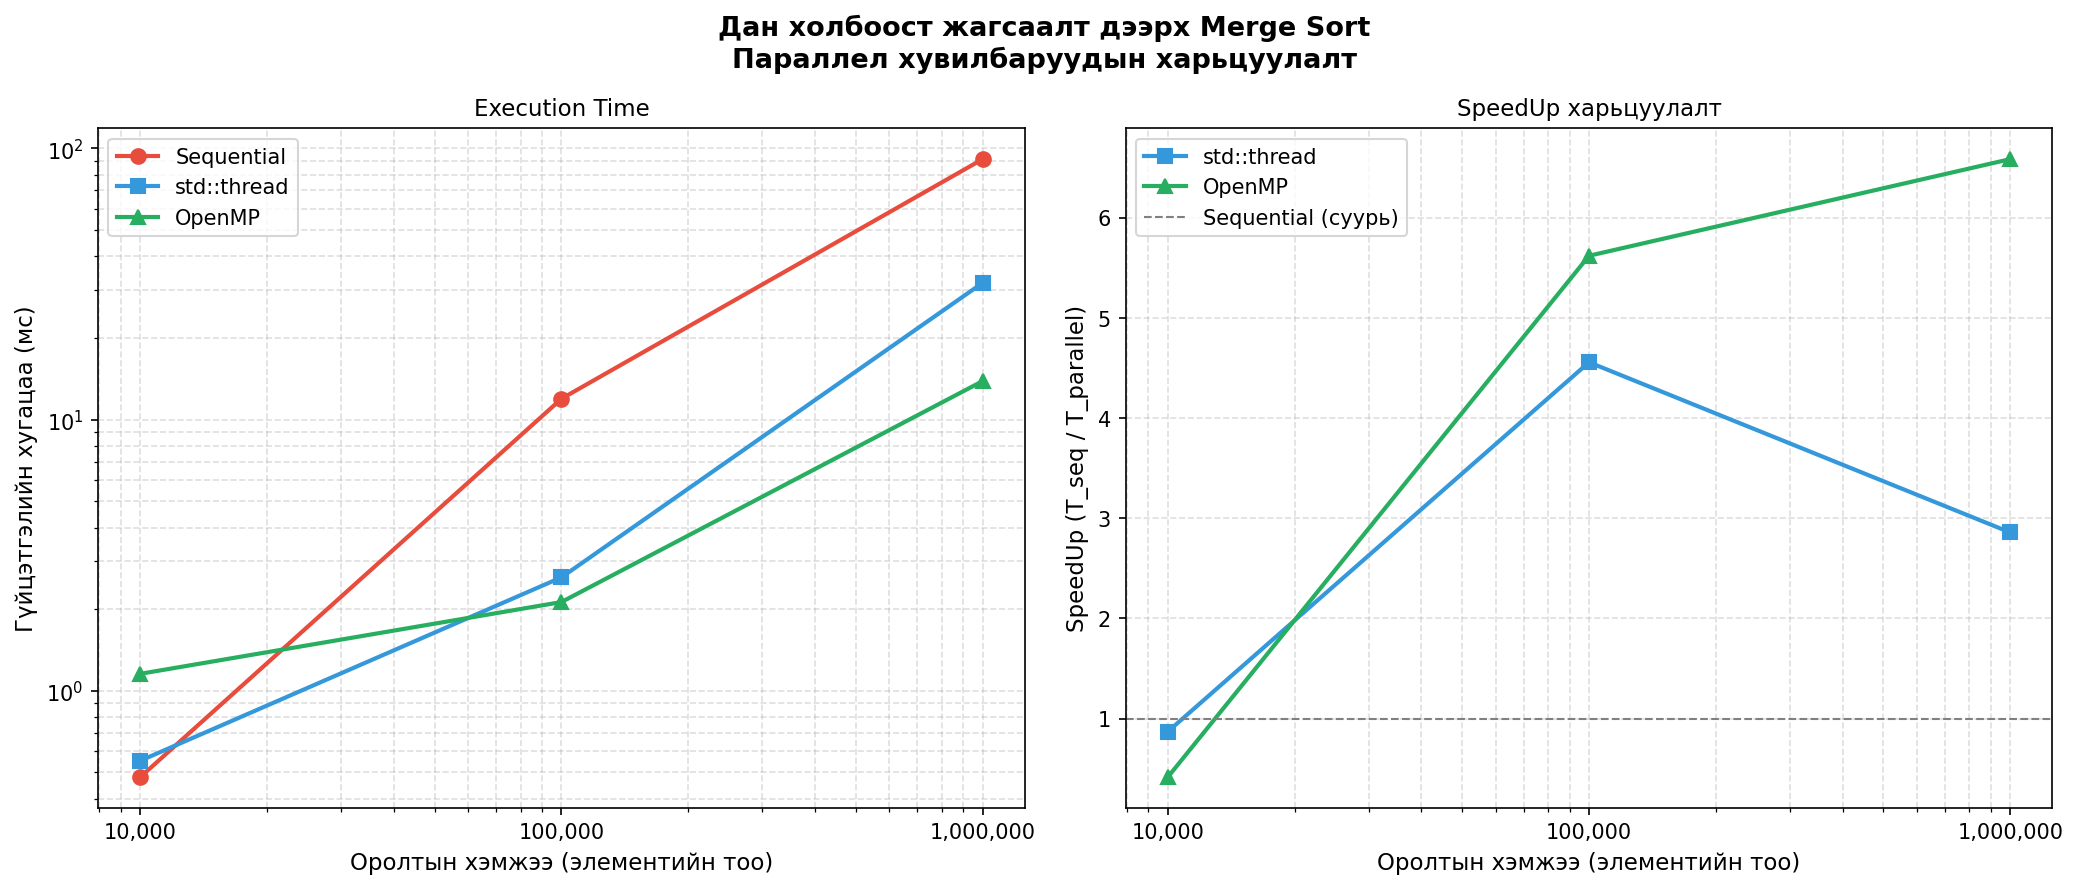
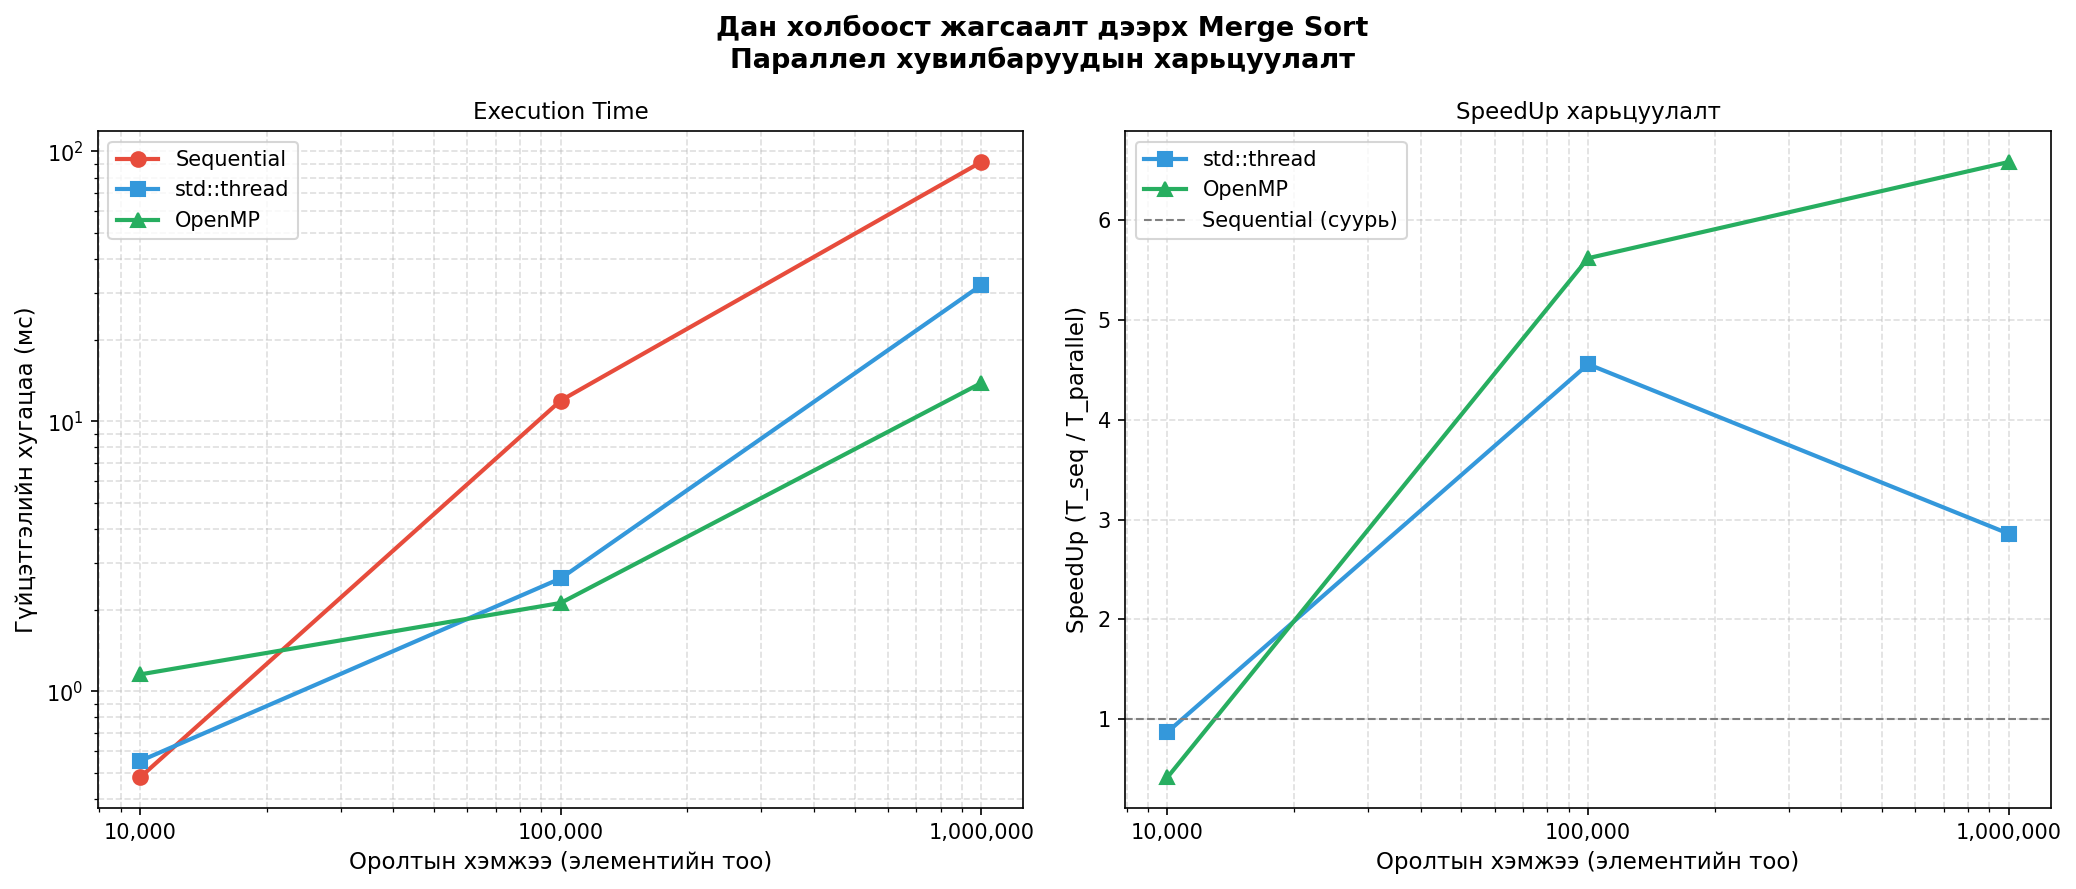
commenting нэмсэн

diff --git a/src/tasksys.cpp b/src/tasksys.cpp
@@ -13,10 +13,14 @@ void reset_array(float* base_array, float* sorting_array, int array_size){
 
 // Хуваагдсан баруун зүүн хоёр жагсаалтыг авч буцаад merge хйинэ.
 void merge_serial(float* leftArray, float* rightArray, float* array, int array_size){
+    // Баруун зүүн хоёр жагсаалтын хэмжээг тодорхойлох нь
     int leftArray_size = array_size/2;
     int rightArray_size = array_size - leftArray_size;
-    int i=0, l=0, r=0;
+    int i=0, l=0, r=0; 
 
+    // Баруун зүүн хоёр жагсаалтыг аль хэдийн тоон дараалалд орсон байна гэж үзнэ.
+    // Хоёр жагсаалтын зүүн гал талаас нь эхлэх ба элемент тус бүрийг хооронд нь харьцуулж
+    // аль бага хэмжээтэй байгааг нь output жагсаалтад нэмэх замаар ажиллана.
     while(l < leftArray_size && r < rightArray_size) {
         if(leftArray[l] < rightArray[r]) {
             array[i] = leftArray[l];
@@ -29,6 +33,8 @@ void merge_serial(float* leftArray, float* rightArray, float* array, int array_s
             r++; 
         }
     }
+
+    //Дээрх loop зогссоны дараа үлдсэн байж болзошгүй элементыг үндсэн жагсаалтад нэгтгэх
     while(l < leftArray_size) {
         array[i] = leftArray[l];
         l++;
@@ -47,11 +53,15 @@ void merge_sort_serial(float* array, int array_size) {
     if(array_size <= 1) {
         return; //Хэрэв жагсаалтын хэмжээ нэг болон түүнээс бага болсон тохиолдолд recursive байдлыг зогсоох
     }
-    int middle = array_size/2;
+    int middle = array_size/2; // Жагсаалтын хэмжээг хоёрт хуваана.
+
+    // Баруун зүүн хоёр жагсаалтыг үүсгэнэ.
     float* leftArray = (float*)malloc(middle*sizeof(float));
     float* rightArray = (float*)malloc((array_size-middle)*sizeof(float));
+
     int i=0, j=0;
 
+    // Эх жагсаалтын зүүн хэсгийг leftArray[]-д, баруун хэсгийг rightArray[]-д онооно.
     for(;i<array_size; i++){
         if(i < middle) {
             leftArray[i] = array[i];
@@ -61,17 +71,19 @@ void merge_sort_serial(float* array, int array_size) {
             j++;
         }
     }
+
+    // Хуваагдсан жагсаалтыг нэгтгэж, recursive байдлаар дахин дуудагдана. 
     merge_sort_serial(leftArray, middle);
     merge_sort_serial(rightArray, array_size-middle);
-    merge_serial(leftArray, rightArray, array, array_size);
+    merge_serial(leftArray, rightArray, array, array_size); 
 
+    // memory allocation хийсэн жагсаалтыг free() хийх нь. 
     free(leftArray);
     free(rightArray);
 }
 
 // co-rank алгоритмыг ашиглаж i утгыг олно.
-// Энэхүү i утгаар дамжуулан зүүн болон баруун жагсаалтаас хэд хэдэн элемент авахыг тухайн урсгал 
-// мэдэх болно.
+// Энэхүү i утгаар дамжуулан зүүн болон баруун жагсаалтаас хэд хэдэн элемент авахыг тухайн урсгал мэдэх болно.
 int co_rank(int k, float* leftArray, int leftArray_size, float* rightArray, int rightArray_size){
     int low;
     if (k > rightArray_size) {
@@ -89,6 +101,10 @@ int co_rank(int k, float* leftArray, int leftArray_size, float* rightArray, int 
         high = leftArray_size;
     }
 
+    // Хэрэв голын доорх i утга дээр дараах if statement-д буй нөхцөл биелэж байна гэдэг нь
+    // баруун, зүүн аль нэг жагсаалтаас хэтэрхий их утга авсан байна гэж үзээд шинээр high болон low
+    // утгуудыг тооцоолно. Ингэснээр жагсаалт болгоны элементүүдийг харьцуулах ачааллаас сэргийлж ердөө хэдхэн харьцуулалт хийж 
+    // хүссэн i утгыг олж чадна.
     while (low <= high){
         int i = (low+high)/2;
         int j = k-i;
@@ -107,7 +123,7 @@ int co_rank(int k, float* leftArray, int leftArray_size, float* rightArray, int 
 }
 
 
-// Урсгал бүр дотроо serial ажиллана.
+// Урсгал бүр дотроо serial ажиллана. Ажиллах зарчим нь энгийн merge sort алгоритмтай ялгаагүй
 void merge_corank_serial(float* leftArray, int leftArray_size, float* rightArray, int rightArray_size, float* array){
     int i = 0, l = 0, r = 0;
     while (l < leftArray_size && r < rightArray_size){
@@ -177,28 +193,21 @@ void merge_sort_parallel(float* array, int array_size, int NUM_THREADS){
     int left_threads  = NUM_THREADS / 2;
     int right_threads = NUM_THREADS - left_threads;
 
+    // Баруун болон зүүн гэж хувааж буй энэхүү үйлдийг parallel-чилах
     std::thread left_thread(merge_sort_parallel, leftArray, leftArray_size, left_threads);
     std::thread right_thread(merge_sort_parallel, rightArray, rightArray_size, right_threads);
 
     left_thread.join();
     right_thread.join();
 
+    // Дараах функцыг дуудаж параллелиар merge хийх нь
     merge_parallel_corank(leftArray, leftArray_size, rightArray, rightArray_size, array, NUM_THREADS);
 
     free(leftArray);
     free(rightArray);
 }
 
-// serial sort хийнэ.
-void TaskSystemSerial::run_sort(int NUM_THREADS, float* array, int array_size){
-    merge_sort_serial(array, array_size);
-}
-
-//std::thread co-rank sort хийнэ.
-void TaskSystemThread::run_sort(int NUM_THREADS, float* array, int array_size){
-    merge_sort_parallel(array, array_size, NUM_THREADS);
-}
-
+// Мөн std::thread-тэй адил co-runk алгоритмыг ашиглан merge-sort алгоритмыг гүйцэтгэнэ.
 void merge_parallel_corank_openmp(float* leftArray, int leftArray_size, float* rightArray, int rightArray_size, float* array, int NUM_THREADS){
     int array_size = leftArray_size + rightArray_size;
 
@@ -255,6 +264,17 @@ void merge_sort_parallel_openmp(float* array, int array_size, int NUM_THREADS){
     free(rightArray);
 }
 
+// serial sort хийнэ.
+void TaskSystemSerial::run_sort(int NUM_THREADS, float* array, int array_size){
+    merge_sort_serial(array, array_size);
+}
+
+//std::thread аргачлалаар merge-sort алгоритмыг co-rank ашиглан хийнэ.
+void TaskSystemThread::run_sort(int NUM_THREADS, float* array, int array_size){
+    merge_sort_parallel(array, array_size, NUM_THREADS);
+}
+
+//openMP аргачлалаар merge-sort алгоритмыг co-rank ашиглан хийнэ.
 void TaskSystemOpenMP::run_sort(int NUM_THREADS, float* array, int array_size){
     if (NUM_THREADS <= 1){
         merge_sort_serial(array, array_size);

diff --git a/src/main.cpp b/src/main.cpp
@@ -8,6 +8,7 @@
 
 const int NUM_THREADS = 20;
 
+// Жагсаалтыг бүрэн дараалал орсон эсэхийг шалгаж, хэрэв ороогүй байвал error заана.
 static void checker(float* array, int array_size){
     for(int i = 0; i<array_size-1; i++) {
         if (array_size <= 1) return;
@@ -23,11 +24,13 @@ static void checker(float* array, int array_size){
 int main() {
     std::srand(static_cast<unsigned int>(std::time(nullptr)));
     float random, result;
-
     FILE *fp = fopen("../csv/output.csv", "w+");
+
+    // csv файлын толгой мөрийг хэвлэх нь
     fprintf(fp, "method,input_size,num_threads,run_id,computation_time_ms,data_transfer_time_ms,execution_time_ms,speedup,total_operations,data_transferred_bytes,achievable_performance\n");
-    
-    int array_sizes[3] = {10000, 100000, 1000000};
+        
+    int array_sizes[3] = {10000, 100000, 1000000}; // тооцоолол хийх жагсаалтуудын хэмжээ
+
     for(int array_size : array_sizes){ 
         float* sorting_array = (float*)malloc(array_size * sizeof(float));
         float* base_array = (float*)malloc(array_size * sizeof(float));
@@ -37,9 +40,10 @@ int main() {
             result = 1.0f + random * (100.0f - 1.0f);
             base_array[i] = result;
         }
+        // Сая үүсгэсэн үндсэн жагсаалтыг одоо дараалалд оруулах гэж буй жагсаалтад хуулах
         memcpy(sorting_array, base_array, array_size * sizeof(float));
 
-        //Serial-n test
+        //Serial-n test hiine
         {
             TaskSystemSerial sys;
             reset_array(base_array, sorting_array, array_size);
@@ -50,7 +54,7 @@ int main() {
             long long ms = std::chrono::duration_cast<std::chrono::milliseconds>(end - start).count();
         }
 
-        // std::thread test
+        // std::thread test hiine
         {
             TaskSystemThread sys;
             reset_array(base_array, sorting_array, array_size);
@@ -61,19 +65,18 @@ int main() {
             long long ms = std::chrono::duration_cast<std::chrono::milliseconds>(end - start).count();
         }
 
-
-
-
-
-
-
-
-
-
-        
+        // openMP test hiine
+        {
+            TaskSystemOpenMP sys;
+            reset_array(base_array, sorting_array, array_size);
+            auto start = std::chrono::high_resolution_clock::now();
+            sys.run_sort(NUM_THREADS, sorting_array, array_size);
+            auto end = std::chrono::high_resolution_clock::now();
+            checker(sorting_array, array_size);
+            long long ms = std::chrono::duration_cast<std::chrono::milliseconds>(end - start).count();
+        }        
         free(sorting_array);
         free(base_array);
     }
-
     fclose(fp);
 }

diff --git a/src/tasksys.h b/src/tasksys.h
@@ -27,10 +27,3 @@ class TaskSystemOpenMP : public TaskSystem {
 public:
     void run_sort(int num_threads, float* array, int array_size) override;
 };
-
-#ifdef USE_CUDA
-class TaskSystemCUDA : public TaskSystem {
-public:
-    void run_sort(int num_threads, float* array, int array_size) override;
-};
-#endif